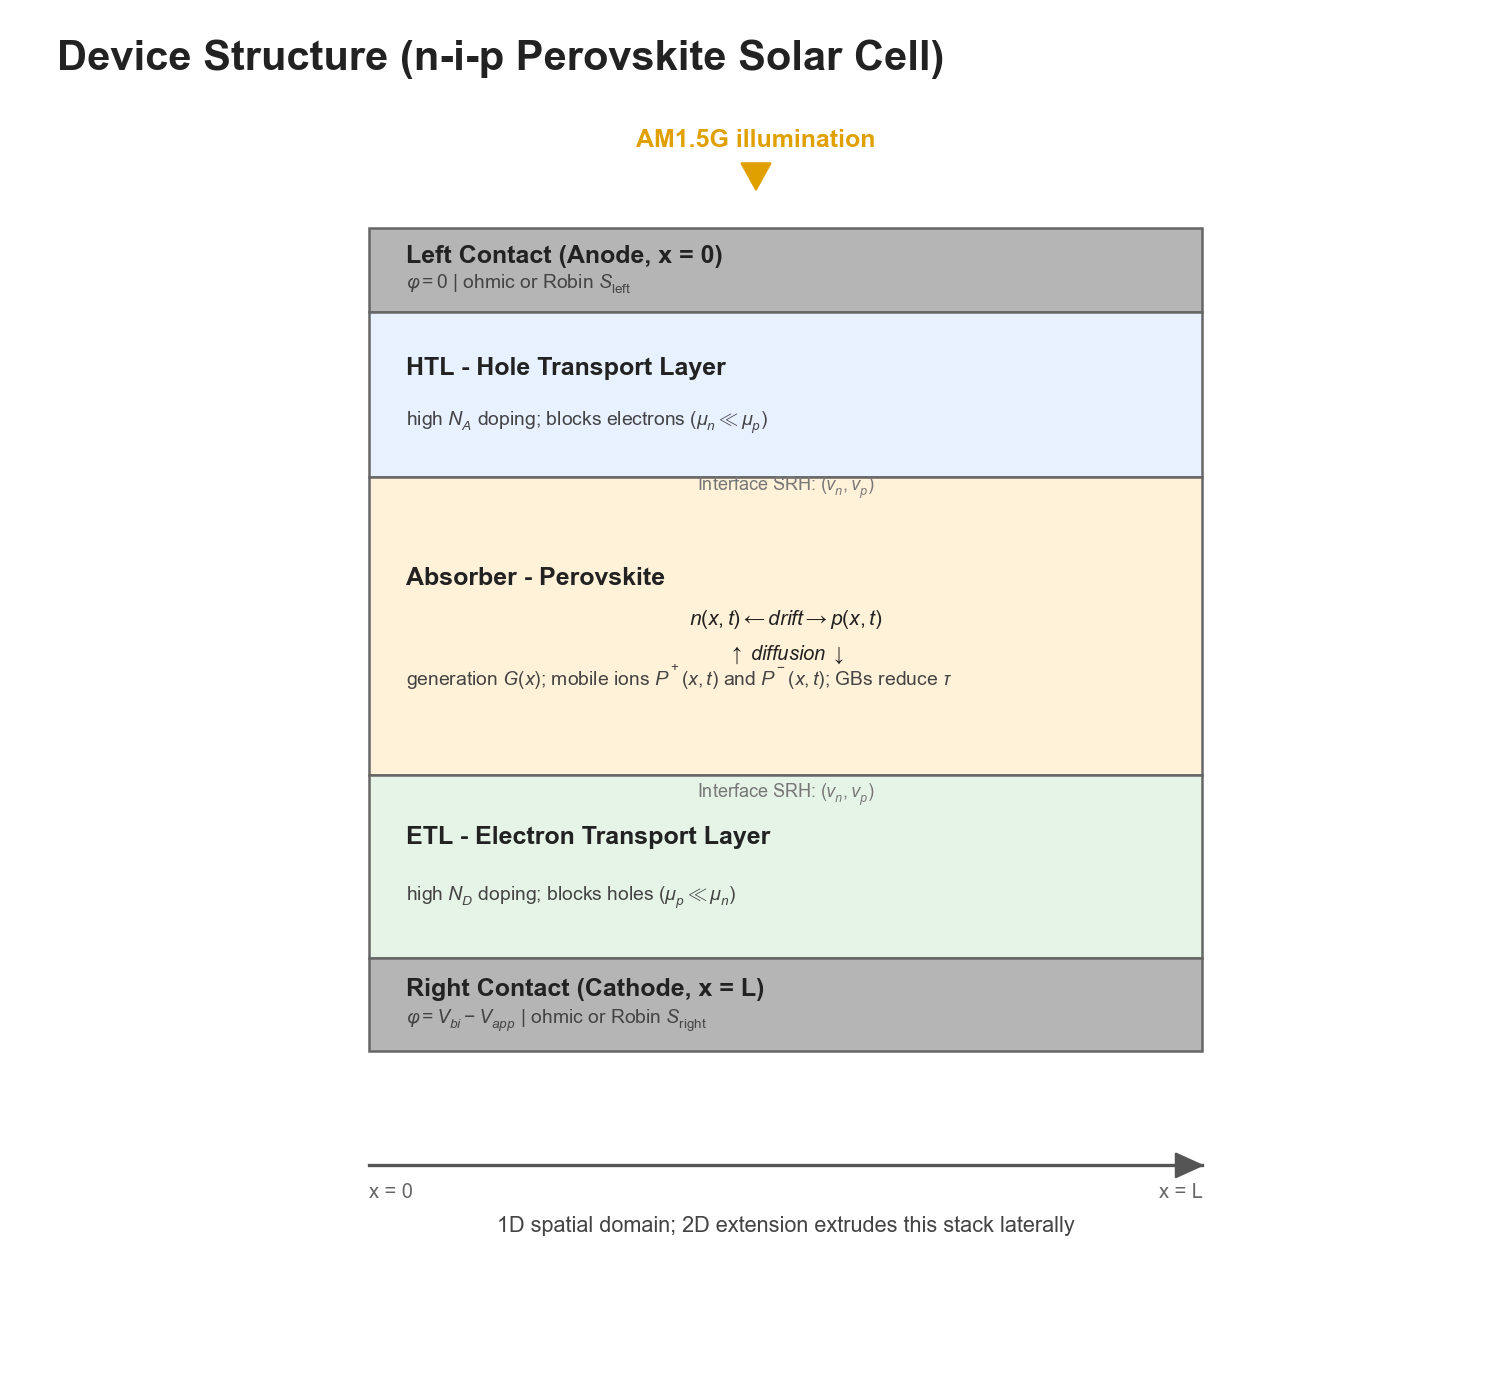
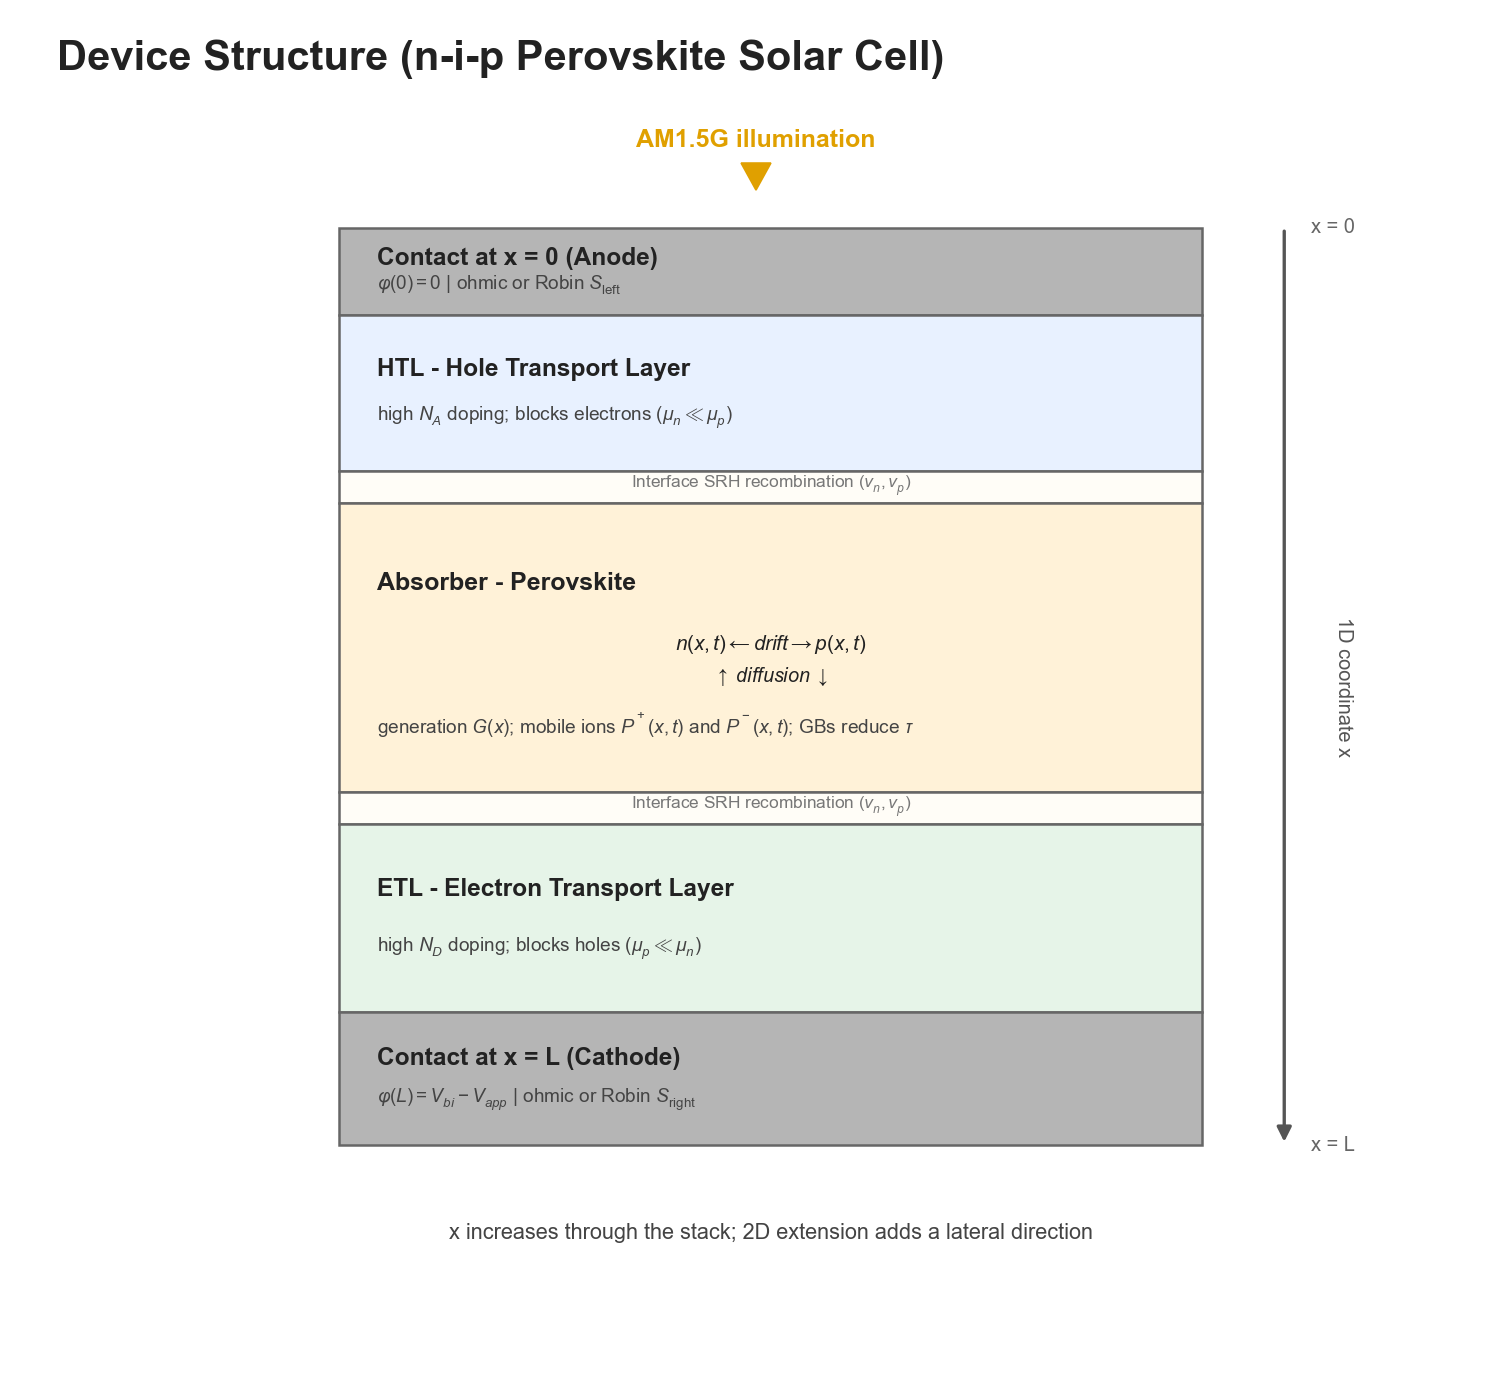
docs: clarify README physics figures

diff --git a/scripts/generate_readme_figures.py b/scripts/generate_readme_figures.py
@@ -134,14 +134,29 @@ def generate_transport_equations() -> None:
     x, y = 0.54, 0.395
     text(ax, x, y, "Beer-Lambert", size=14.5, weight="bold")
     text(ax, x + 0.130, y, "legacy / fast fallback", size=10.8, color="#888888")
-    text(ax, x, y - 0.040, r"$G_{BL}(x)=\int_\lambda \alpha\Phi_0\,e^{-\int_0^x\alpha dx'}d\lambda$", size=12.2)
-    ax.plot([0.54, 0.94], [0.330, 0.330], color="#dddddd", lw=1)
-    text(ax, x, y - 0.085, "Transfer Matrix (TMM)", size=14.5, weight="bold")
-    text(ax, x + 0.205, y - 0.085, "FULL tier", size=10.8, color="#888888")
-    text(ax, x, y - 0.125, r"$G_{TMM}(x,\lambda)=\hbar^{-1}\omega^{-1}(n/n_{amb})\,\alpha |E|^2$", size=12.2)
-    ax.plot([0.54, 0.94], [0.245, 0.245], color="#dddddd", lw=1)
-    text(ax, x, 0.218, r"$\mathbf{Poisson:}\ -\partial_x(\varepsilon_0\varepsilon_r\partial_x\varphi)=q(p-n+N_D-N_A+P-P_0)$", size=11.4)
-    text(ax, x, 0.192, r"$\mathbf{2D:}$ sparse Poisson + SG fluxes on $(N_y\times N_x)$ mesh", size=11.4)
+    text(
+        ax,
+        x,
+        y - 0.036,
+        r"$G_{BL}(x)=\int_{\lambda_{\min}}^{\lambda_{\max}}"
+        r"\alpha(\lambda,x)\Phi_0(\lambda)T(\lambda,x)\,d\lambda$",
+        size=10.8,
+    )
+    text(
+        ax,
+        x,
+        y - 0.070,
+        r"$T(\lambda,x)=\exp[-\int_0^x\alpha(\lambda,x')\,dx']$",
+        size=10.8,
+        color="#555555",
+    )
+    ax.plot([0.54, 0.94], [0.304, 0.304], color="#dddddd", lw=1)
+    text(ax, x, y - 0.110, "Transfer Matrix (TMM)", size=14.2, weight="bold")
+    text(ax, x + 0.205, y - 0.110, "FULL tier", size=10.8, color="#888888")
+    text(ax, x, y - 0.150, r"$G_{TMM}(x,\lambda)=\hbar^{-1}\omega^{-1}(n/n_{amb})\,\alpha |E|^2$", size=11.8)
+    ax.plot([0.54, 0.94], [0.222, 0.222], color="#dddddd", lw=1)
+    text(ax, x, 0.206, r"$\mathbf{Poisson:}\ -\partial_x(\varepsilon_0\varepsilon_r\partial_x\varphi)=q(p-n+N_D-N_A+P-P_0)$", size=10.8)
+    text(ax, x, 0.185, r"$\mathbf{2D:}$ sparse Poisson + SG fluxes on $(N_y\times N_x)$ mesh", size=10.8)
 
     save(fig, "transport_equations.png")
 
@@ -212,31 +227,51 @@ def generate_device_structure() -> None:
     text(ax, 0.50, 0.905, "AM1.5G illumination", size=15, weight="bold", color="#e0a000", ha="center")
     ax.add_patch(Polygon([[0.49, 0.888], [0.51, 0.888], [0.50, 0.868]], color="#e0a000"))
 
-    x, y, w, h = 0.24, 0.18, 0.56, 0.66
+    x, y, w, h = 0.22, 0.16, 0.58, 0.68
     parts = [
-        (0.095, "#b5b5b5", "Left Contact (Anode, x = 0)", r"$\varphi=0$ | ohmic or Robin $S_{\mathrm{left}}$"),
-        (0.185, "#e8f1ff", "HTL - Hole Transport Layer", r"high $N_A$ doping; blocks electrons ($\mu_n \ll \mu_p$)"),
-        (0.335, "#fff2d8", "Absorber - Perovskite", r"generation $G(x)$; mobile ions $P^+(x,t)$ and $P^-(x,t)$; GBs reduce $\tau$"),
-        (0.205, "#e6f4e8", "ETL - Electron Transport Layer", r"high $N_D$ doping; blocks holes ($\mu_p \ll \mu_n$)"),
-        (0.105, "#b5b5b5", "Right Contact (Cathode, x = L)", r"$\varphi=V_{bi}-V_{app}$ | ohmic or Robin $S_{\mathrm{right}}$"),
+        ("layer", 0.095, "#b5b5b5", "Contact at x = 0 (Anode)", r"$\varphi(0)=0$ | ohmic or Robin $S_{\mathrm{left}}$"),
+        ("layer", 0.170, "#e8f1ff", "HTL - Hole Transport Layer", r"high $N_A$ doping; blocks electrons ($\mu_n \ll \mu_p$)"),
+        ("interface", 0.035, "#fffdf7", r"Interface SRH recombination $(v_n,v_p)$", ""),
+        ("absorber", 0.315, "#fff2d8", "Absorber - Perovskite", r"generation $G(x)$; mobile ions $P^+(x,t)$ and $P^-(x,t)$; GBs reduce $\tau$"),
+        ("interface", 0.035, "#fffdf7", r"Interface SRH recombination $(v_n,v_p)$", ""),
+        ("layer", 0.205, "#e6f4e8", "ETL - Electron Transport Layer", r"high $N_D$ doping; blocks holes ($\mu_p \ll \mu_n$)"),
+        ("layer", 0.145, "#b5b5b5", "Contact at x = L (Cathode)", r"$\varphi(L)=V_{bi}-V_{app}$ | ohmic or Robin $S_{\mathrm{right}}$"),
     ]
     yy = y + h
-    for frac, color, title, subtitle in parts:
+    for kind, frac, color, title, subtitle in parts:
         hh = h * frac
         yy -= hh
         ax.add_patch(Rectangle((x, yy), w, hh, facecolor=color, edgecolor="#666666", linewidth=1.5))
-        text(ax, x + 0.025, yy + hh * 0.66, title, size=15.0, weight="bold")
-        text(ax, x + 0.025, yy + hh * 0.33, subtitle, size=11.6, color="#444444")
-    text(ax, x + w / 2, y + h * 0.56, r"$n(x,t)\leftarrow drift \rightarrow p(x,t)$", size=12.5, ha="center")
-    text(ax, x + w / 2, y + h * 0.52, r"$\uparrow\ diffusion\ \downarrow$", size=12.0, style="italic", ha="center")
-    text(ax, x + w / 2, y + h * 0.708, r"Interface SRH: $(v_n,v_p)$", size=10.8, color="#777777", ha="center")
-    text(ax, x + w / 2, y + h * 0.363, r"Interface SRH: $(v_n,v_p)$", size=10.8, color="#777777", ha="center")
+        if kind == "interface":
+            text(ax, x + w / 2, yy + hh * 0.52, title, size=10.4, color="#777777", ha="center")
+        elif kind == "absorber":
+            text(ax, x + 0.025, yy + hh * 0.72, title, size=15.0, weight="bold")
+            text(ax, x + w / 2, yy + hh * 0.51, r"$n(x,t)\leftarrow drift \rightarrow p(x,t)$", size=12.4, ha="center")
+            text(ax, x + w / 2, yy + hh * 0.40, r"$\uparrow\ diffusion\ \downarrow$", size=11.8, style="italic", ha="center")
+            text(ax, x + 0.025, yy + hh * 0.23, subtitle, size=11.4, color="#444444")
+        else:
+            text(ax, x + 0.025, yy + hh * 0.65, title, size=14.7, weight="bold")
+            text(ax, x + 0.025, yy + hh * 0.34, subtitle, size=11.4, color="#444444")
 
-    ax.plot([x, x + w], [0.145, 0.145], color="#555555", lw=2)
-    ax.add_patch(Polygon([[x + w, 0.145], [x + w - 0.018, 0.154], [x + w - 0.018, 0.136]], color="#555555"))
-    text(ax, x, 0.125, "x = 0", size=12, color="#666666")
-    text(ax, x + w, 0.125, "x = L", size=12, color="#666666", ha="right")
-    text(ax, x + w / 2, 0.100, "1D spatial domain; 2D extension extrudes this stack laterally", size=13, color="#444444", ha="center")
+    axis_x = x + w + 0.055
+    ax.annotate(
+        "",
+        xy=(axis_x, y),
+        xytext=(axis_x, y + h),
+        arrowprops={"arrowstyle": "-|>", "color": "#555555", "lw": 2, "mutation_scale": 18},
+    )
+    text(ax, axis_x + 0.018, y + h, "x = 0", size=12, color="#666666", va="center")
+    text(ax, axis_x + 0.018, y, "x = L", size=12, color="#666666", va="center")
+    text(ax, axis_x + 0.040, y + h / 2, "1D coordinate x", size=12, color="#555555", rotation=-90, ha="center")
+    text(
+        ax,
+        x + w / 2,
+        0.095,
+        "x increases through the stack; 2D extension adds a lateral direction",
+        size=13,
+        color="#444444",
+        ha="center",
+    )
 
     save(fig, "device_structure.png")
 
